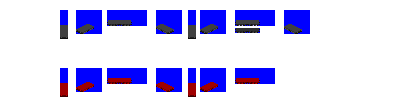
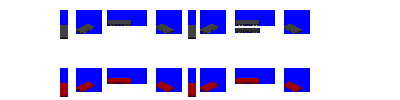
Change: WIP on gen 2B flat car

Changed region(s): [[0.69, 0.66, 0.78, 0.93]]

diff --git a/src/vehicles/flat_cars.py b/src/vehicles/flat_cars.py
@@ -13,7 +13,7 @@ def main():
                      cargo_length=3,
                      vehicle_length=3)
 
-    
+
     #--------------- pony ----------------------------------------------------------------------
     consist = FlatCarConsist(roster='pony',
                              base_numeric_id=1140,
@@ -24,7 +24,7 @@ def main():
                      cargo_length=3,
                      vehicle_length=4)
 
-    
+
     consist = FlatCarConsist(roster='pony',
                              base_numeric_id=1150,
                              gen=2,
@@ -32,9 +32,10 @@ def main():
 
     consist.add_unit(type=FreightCar,
                      cargo_length=3,
-                     vehicle_length=6)
+                     vehicle_length=6,
+                     chassis='4_axle_gapped_24px')
 
-    
+
     consist = FlatCarConsist(roster='pony',
                              base_numeric_id=1160,
                              gen=3,
@@ -44,7 +45,7 @@ def main():
                      cargo_length=3,
                      vehicle_length=6)
 
-    
+
     consist = FlatCarConsist(roster='pony',
                              base_numeric_id=2550,
                              gen=3,
@@ -54,7 +55,7 @@ def main():
                      cargo_length=3,
                      vehicle_length=8)
 
-    
+
     consist = FlatCarConsist(roster='pony',
                              base_numeric_id=2540,
                              gen=4,
@@ -64,7 +65,7 @@ def main():
                      cargo_length=3,
                      vehicle_length=6)
 
-    
+
     consist = FlatCarConsist(roster='pony',
                              base_numeric_id=2530,
                              gen=4,
@@ -74,7 +75,7 @@ def main():
                      cargo_length=4,
                      vehicle_length=8)
 
-    
+
     consist = FlatCarConsist(roster='pony',
                              base_numeric_id=2520,
                              gen=5,
@@ -84,7 +85,7 @@ def main():
                      cargo_length=3,
                      vehicle_length=6)
 
-    
+
     consist = FlatCarConsist(roster='pony',
                              base_numeric_id=2510,
                              gen=5,
@@ -94,7 +95,7 @@ def main():
                      cargo_length=4,
                      vehicle_length=8)
 
-    
+
     # no gen 6 flat cars, cap to gen 5 in Pony
 
     #--------------- llama ----------------------------------------------------------------------
@@ -107,7 +108,7 @@ def main():
                      cargo_length=3,
                      vehicle_length=5)
 
-    
+
     consist = FlatCarConsist(roster='llama',
                              base_numeric_id=1510,
                              gen=2,
@@ -117,7 +118,7 @@ def main():
                      cargo_length=3,
                      vehicle_length=5)
 
-    
+
     consist = FlatCarConsist(roster='llama',
                              base_numeric_id=520,
                              gen=1,
@@ -128,7 +129,7 @@ def main():
                      cargo_length=3,
                      vehicle_length=5)
 
-    
+
     consist = FlatCarConsist(roster='llama',
                              base_numeric_id=1500,
                              gen=2,
@@ -139,7 +140,7 @@ def main():
                      cargo_length=3,
                      vehicle_length=5)
 
-    
+
     #--------------- antelope ----------------------------------------------------------------------
     consist = FlatCarConsist(roster='antelope',
                              base_numeric_id=1640,
@@ -150,7 +151,7 @@ def main():
                      cargo_length=3,
                      vehicle_length=8)
 
-    
+
     consist = FlatCarConsist(roster='antelope',
                              base_numeric_id=1650,
                              gen=2,
@@ -160,7 +161,7 @@ def main():
                      cargo_length=3,
                      vehicle_length=8)
 
-    
+
     consist = FlatCarConsist(roster='antelope',
                              base_numeric_id=2110,
                              gen=1,
@@ -171,7 +172,7 @@ def main():
                      cargo_length=3,
                      vehicle_length=8)
 
-    
+
     consist = FlatCarConsist(roster='antelope',
                              base_numeric_id=1930,
                              gen=2,
@@ -182,4 +183,3 @@ def main():
                      cargo_length=3,
                      vehicle_length=8)
 
-    
